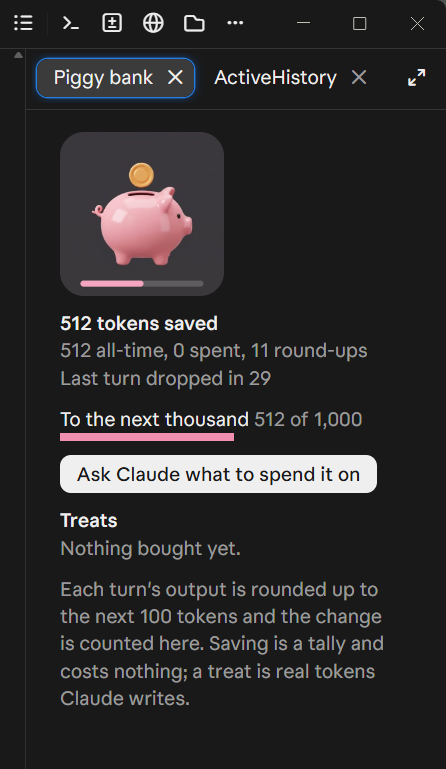
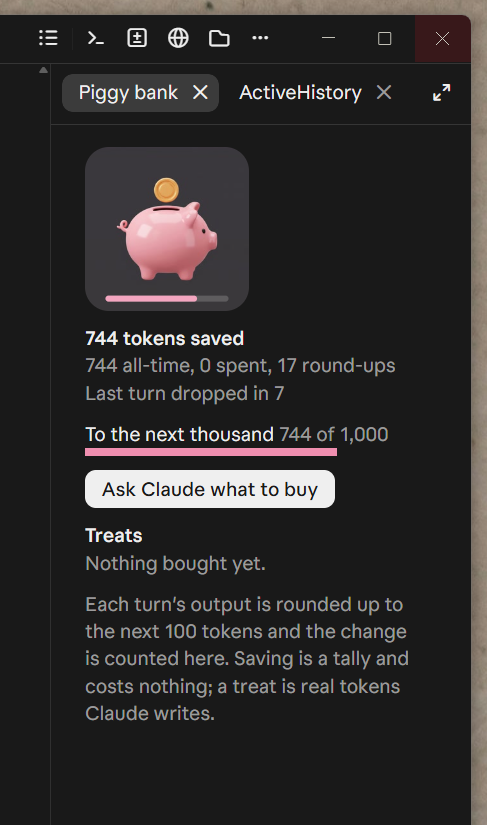
README: new desktop panel screenshot with the "Ask Claude what to buy" button

Changed region(s): [[0.0, 0.0, 1.0, 1.0], [0.4955, 0.1873, 0.5247, 0.3745]]

diff --git a/README.md b/README.md
@@ -14,7 +14,7 @@ A Claude Code mod that gives Claude a piggy bank. At the end of every turn, the 
 
 <table>
 <tr>
-<td width="300" valign="top"><img src="assets/desktop-panel.png" alt="The Piggy bank panel in the desktop app: the pig, 512 tokens saved, a bar to the next thousand, the Ask Claude button and the treats list" width="300"></td>
+<td width="300" valign="top"><img src="assets/desktop-panel.png" alt="The Piggy bank panel in the desktop app: the pig, 744 tokens saved, a bar to the next thousand, the Ask Claude what to buy button and the treats list" width="300"></td>
 <td valign="top">
 
 **Desktop app (Code tab):** a panel beside the chat with the pig, the balance, a bar to the next 1,000, an **Ask Claude what to buy** button and a list of past treats.
